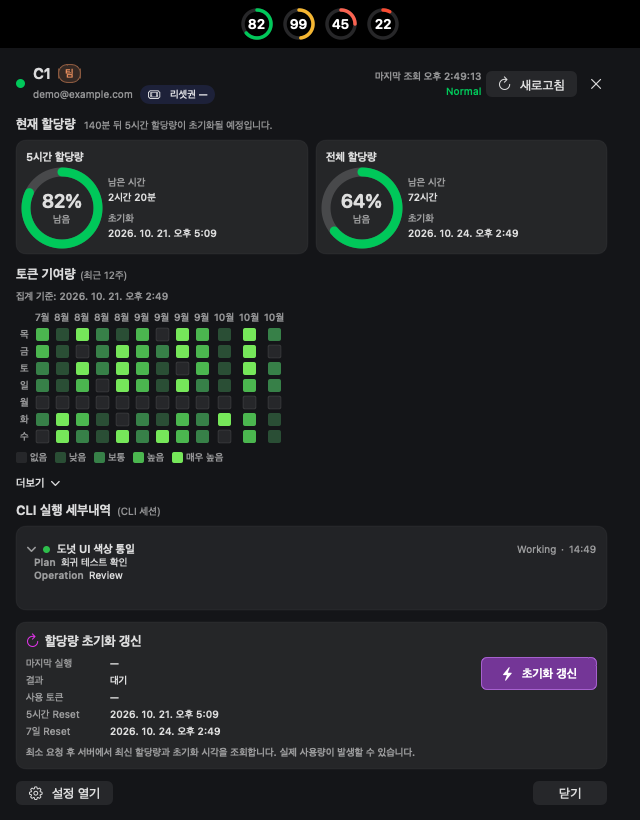
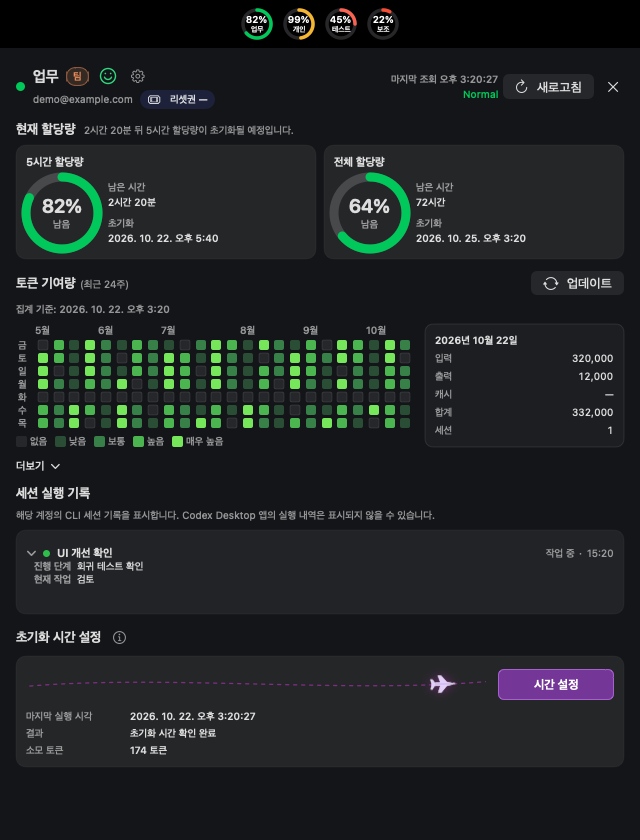
docs: 최신 UI 예시 이미지와 설정 안내 갱신

diff --git a/README.md b/README.md
@@ -12,7 +12,7 @@
 | 계정별 표시 | 최대 4개 계정 등록, 표시 여부와 순서 설정 |
 | 토큰 사용량 | 최근 24주 일별 사용량과 오늘·7일·30일 합계 확인 |
 | 세션 실행 기록 | 등록한 계정 폴더에 기록된 최근 CLI 세션과 하위 에이전트 활동 표시 |
-| 초기화 갱신 | 최소 요청 후 최신 할당량과 초기화 시각 재조회 |
+| 초기화 시간 설정 | 최소 요청 후 최신 할당량과 초기화 시각 재조회 |
 | 초기화 알림 | 초기화 사전·도달 알림과 조기 리셋 감지 알림 |
 | 리셋권 확인 | 서버에서 제공하는 잔여 개수와 소멸일 확인 |
 | 서비스 상태 | OpenAI 공개 서비스 상태와 공식 상태 페이지 확인 |
@@ -33,7 +33,7 @@
 ## 설정
 
 - 계정 폴더·표시 계정·표시 순서 설정
-- 새로고침 주기: 1~1,440분, 기본 5분
+- 새로고침 주기: 1~60분, 기본 5분
 - 초기화 사전 알림: 끔·3분 전·5분 전·10분 전
 - 활동 알림 표시 시간·계정 라벨 표시 설정
 - macOS 로그인 시 자동 실행 설정
@@ -71,7 +71,7 @@ open /path/to/CodexQuotaMonitor.app
 - 토큰 집계 캐시는 마지막 성공 업데이트부터 14일 보관, 원본 세션 파일 삭제 제외
 - 토큰 사용량·세션 활동은 등록한 계정 폴더의 로컬 기록 기준으로 서버 전체 기록과 차이 가능
 - Codex Desktop 앱의 실행 내역은 표시되지 않을 수 있음
-- 초기화 갱신은 실제 요청에 따른 사용량 발생 가능, 서버 초기화 시각 변경 보장 없음
+- 초기화 시간 설정은 실제 요청에 따른 사용량 발생 가능, 서버 초기화 시각 변경 보장 없음
 - 리셋권·소멸일은 서버가 제공하는 범위에서 표시
 - 알림 배너는 macOS 권한·집중 모드·시스템 설정에 따라 표시
 
